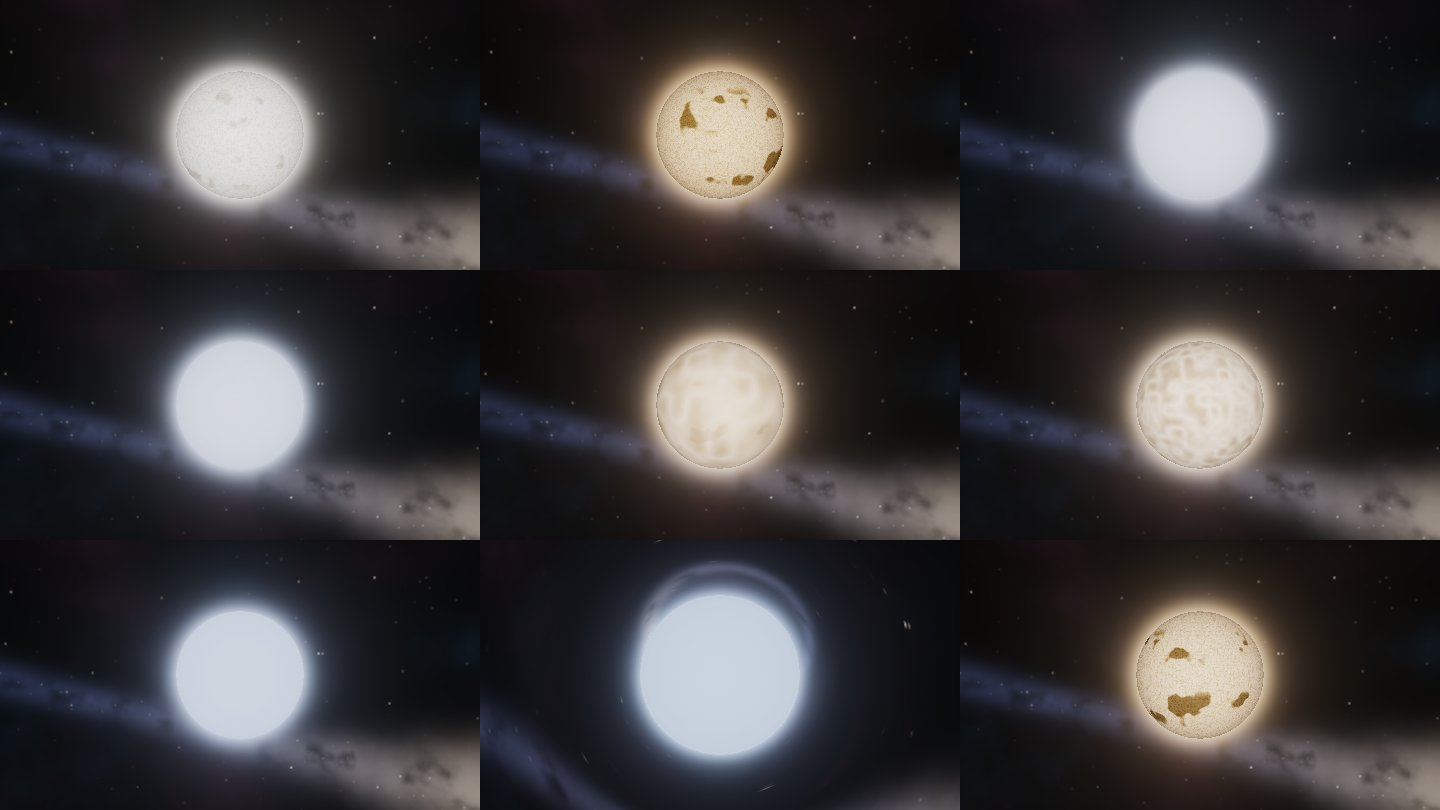
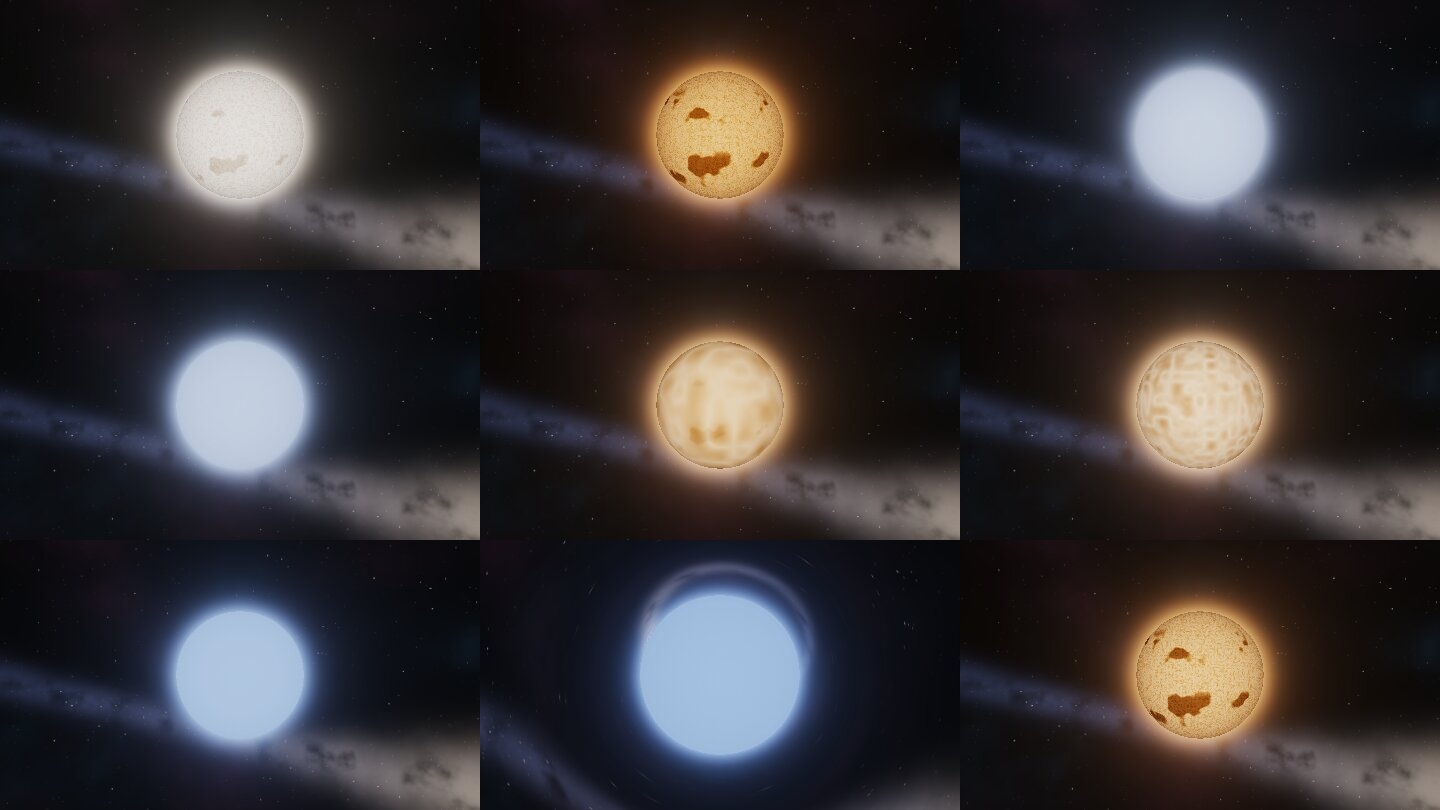
README : ajoute les étoiles et le panneau, images aux bonnes couleurs
Le README racine présente maintenant la simulation d'étoiles et le
panneau de contrôle (PR #9) : fonctionnalités, touches, fichiers,
historique. Les images rendu.jpg et etoiles.jpg sont recalculées après
la correction des couleurs de corps noir (PR #10) : disque et étoiles
froides apparaissent orangés comme dans le programme.

Claude-Session: https://claude.ai/code/session_01GwaV667bSC4gEoLWcaUf5o

diff --git a/README.md b/README.md
@@ -35,6 +35,16 @@ finit, le pixel prend la couleur :
 - Fond de galaxie procédural (étoiles, bande type Voie lactée, nébuleuses).
 - Caméra libre avec inertie, orbite automatique, pause et vitesse du temps.
 - Résolution de rendu réglée automatiquement pour tenir ~30 FPS.
+- **Simulation d'étoiles** (touche `E`) : Soleil, Proxima du Centaure,
+  Sirius A et B, Rigel, Bételgeuse, Aldébaran, étoile à neutrons, ou une
+  étoile créée à partir de sa masse. Couleur de corps noir, bord assombri,
+  granulation, taches et lentille gravitationnelle pour les objets compacts.
+- **Panneau de contrôle** (Dear ImGui, `F1` ou `Tab`) : masse du trou noir,
+  disque, caméra, résolution, exposition, et choix ou réglage des étoiles.
+
+![Panneau de contrôle](blackhole/docs/panneau.jpg)
+
+![Étoiles simulées](blackhole/docs/etoiles.jpg)
 
 ## Démarrage rapide
 
@@ -67,6 +77,9 @@ Le détail par système (paquets Linux, macOS) est dans
 | `Espace` | orbite automatique |
 | `P` / `+` / `-` | pause, accélérer, ralentir le temps |
 | `H` | afficher / cacher le disque |
+| `F1` ou `Tab` | afficher / cacher le panneau de contrôle |
+| `E` | passer du trou noir à une étoile, et retour |
+| `N` / `B` | étoile suivante / précédente |
 | `K` / `L` / `O` | baisser, augmenter la résolution, ou la laisser automatique |
 | `Échap` | quitter |
 
@@ -97,22 +110,27 @@ Les détails et les mesures sont dans
 ├── .vscode/                  tâches de compilation, débogage, extensions
 └── blackhole/
     ├── README.md             documentation technique et physique détaillée
-    ├── CMakeLists.txt        build (GLFW système ou téléchargé, glad embarqué)
+    ├── CMakeLists.txt        build (GLFW système ou téléchargé, glad et ImGui embarqués)
     ├── docs/                 images de rendu
     ├── external/glad/        chargeur OpenGL 3.3 core (fichiers générés)
+    ├── external/imgui/       Dear ImGui (panneau de contrôle)
     ├── shaders/
     │   ├── blackhole.frag    le ray tracer : géodésiques, horizon, disque
+    │   ├── star.frag         ray tracer des étoiles
     │   ├── sky.frag          fond de galaxie, calculé une fois en cubemap
     │   ├── present.frag      agrandissement et tone mapping
     │   ├── noise.glsl        fonctions de bruit partagées
     │   └── fullscreen.vert   triangle plein écran
     └── src/
         ├── main.cpp          fenêtre, caméra, temps, boucle de rendu
+        ├── app.hpp           état de la simulation partagé
+        ├── ui.cpp/.hpp       panneau de contrôle
+        ├── star.cpp/.hpp     modèle physique des étoiles
         └── shader.cpp/.hpp   chargement et compilation des shaders
 ```
 
-La physique (équation des photons, horizon, disque, Doppler) est expliquée
-pas à pas dans [`blackhole/README.md`](blackhole/README.md#la-physique-utilisée).
+La physique (équation des photons, horizon, disque, Doppler, modèle des
+étoiles) est expliquée pas à pas dans [`blackhole/README.md`](blackhole/README.md#la-physique-utilisée).
 
 ## Historique
 
@@ -121,14 +139,17 @@ pas à pas dans [`blackhole/README.md`](blackhole/README.md#la-physique-utilisé
 | 1. Moteur de base | Rayons courbés (Schwarzschild, RK4), horizon, disque avec Doppler, fond procédural, config VS Code |
 | 2. Caméra et animation | Caméra libre avec inertie, disque d'accrétion animé, contrôle du temps |
 | 3. Optimisation Intel | Ciel en cubemap, résolution automatique, pas adaptatif, arrêt anticipé |
-| 4. Build | GLFW du système utilisé s'il existe, README racine |
+| 4. Build et CI | GLFW du système utilisé s'il existe, compilation automatique Linux / Windows sur GitHub |
+| 5. Documentation | README racine complet, images de rendu à jour |
+| 6. Étoiles et panneau | Simulation d'étoiles, panneau de contrôle Dear ImGui |
+| 7. Couleurs | Couleurs de corps noir converties en lumière linéaire : étoiles froides et disque bien orangés |
 
 ## Pistes pour la suite
 
 - Trou noir en rotation (métrique de Kerr) : ombre asymétrique.
 - Anti-aliasing (plusieurs rayons par pixel) et bloom autour du disque.
 - Fond de ciel à partir d'une vraie image HDR de la Voie lactée.
-- Interface de réglage en direct (masse, disque, vitesse) avec Dear ImGui.
+- Plusieurs objets dans la même scène (étoile en orbite autour du trou noir).
 
 ## Régénérer les images de ce README
 
